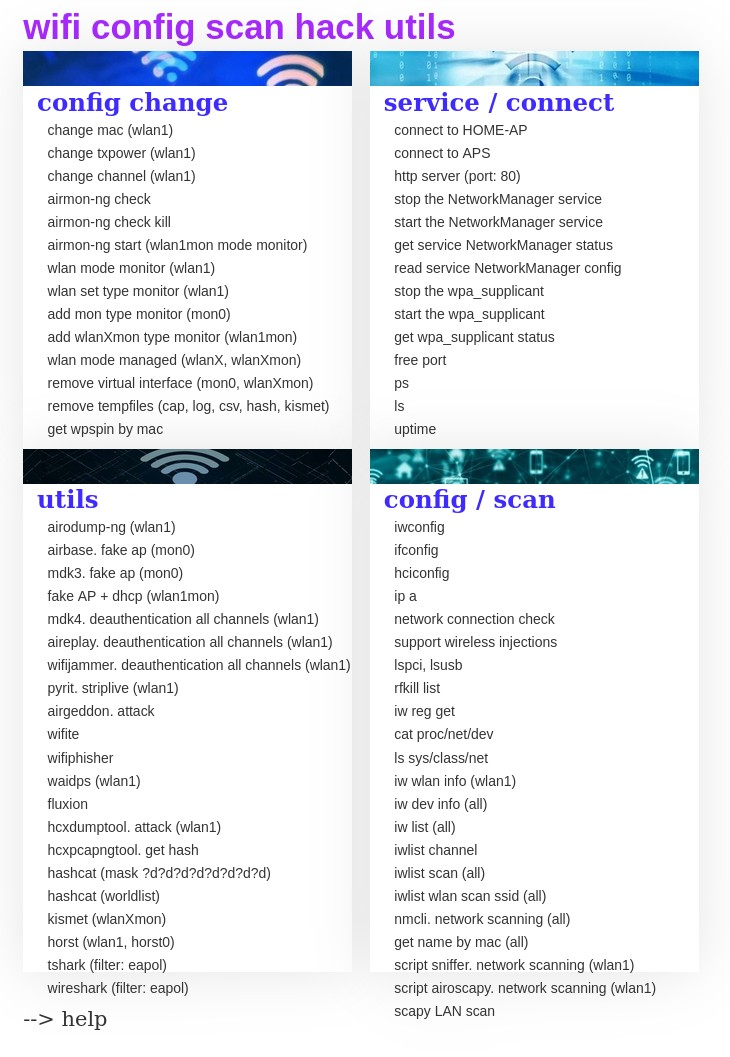
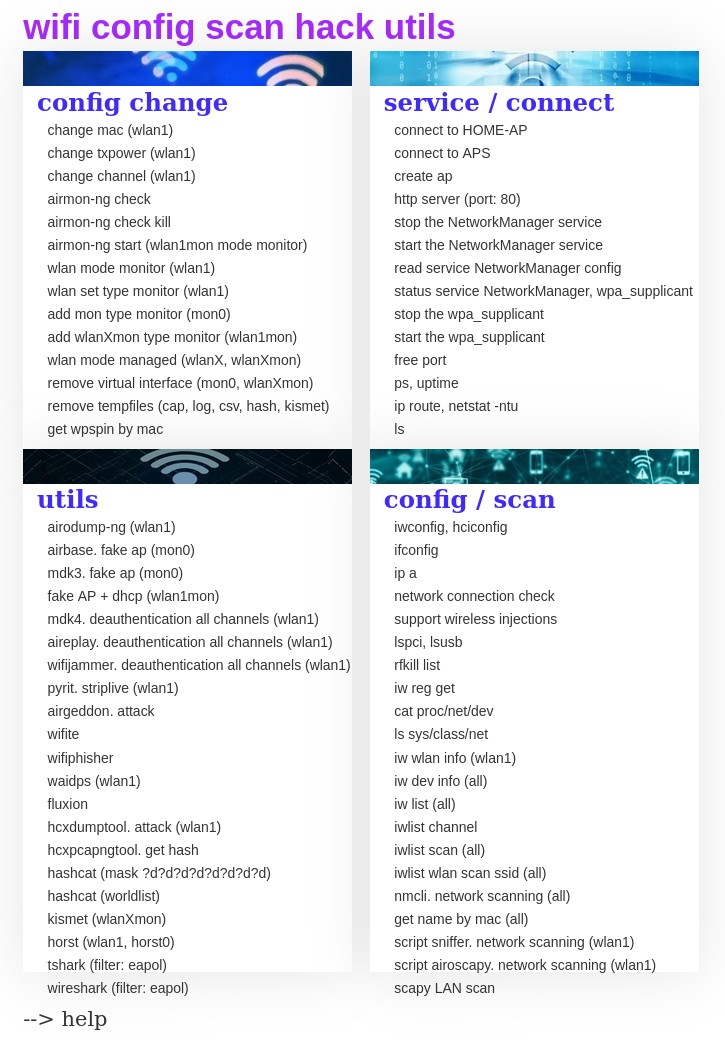
fixed manager, app, added create_ap

diff --git a/template/index.html b/template/index.html
@@ -79,6 +79,9 @@
             <a href="/wifi-ap-to-ap-connect" target="_blank">connect to APS</a>
           </li>
           <li class="items-list">
+            <a href="/create-ap" target="_blank">create ap</a>
+          </li>
+          <li class="items-list">
             <a href="/http_server" target="_blank">http server (port: 80)</a>
           </li>	
           <li class="items-list">
@@ -88,10 +91,10 @@
             <a href="/NetworkManager_start" target="_blank">start the NetworkManager service</a>
           </li>
           <li class="items-list">
-            <a href="/NetworkManager_status" target="_blank">get service NetworkManager status</a>
+            <a href="/NetworkManager_read_conf" target="_blank">read service NetworkManager config</a>
           </li>
           <li class="items-list">
-            <a href="/NetworkManager_read_conf" target="_blank">read service NetworkManager config</a>
+            <a href="/NetworkManager_wpa_supplicant_status" target="_blank">status service NetworkManager, wpa_supplicant</a>
           </li>
           <li class="items-list">
             <a href="/wpa_supplicant_stop" target="_blank">stop the wpa_supplicant</a>
@@ -100,19 +103,16 @@
             <a href="/wpa_supplicant_start" target="_blank">start the wpa_supplicant</a>
           </li>
           <li class="items-list">
-            <a href="/wpa_supplicant_status" target="_blank">get wpa_supplicant status</a>
-          </li>
-          <li class="items-list">
             <a href="/free_port/<int:port>" target="_blank">free port</a>
           </li>
           <li class="items-list">
-            <a href="/ps" target="_blank">ps</a>
+            <a href="/ps_uptime" target="_blank">ps, uptime</a>
+          </li>
+          <li class="items-list">
+            <a href="/route-netstat" target="_blank">ip route, netstat -ntu</a>
           </li>
           <li class="items-list">
             <a href="/ls" target="_blank">ls</a>
-          </li>
-          <li class="items-list">
-            <a href="/uptime" target="_blank">uptime</a>
           </li>
           <li class="items-list">
           </li>
@@ -196,13 +196,10 @@
         </h2>
         <ul class="card-list">
           <li class="items-list">
-            <a href="/iwconfig" target="_blank">iwconfig</a>
+            <a href="/iwconfig-hciconfig" target="_blank">iwconfig, hciconfig</a>
           </li>
           <li class="items-list">
             <a href="/ifconfig" target="_blank">ifconfig</a>
-          </li>
-          <li class="items-list">
-            <a href="/hciconfig" target="_blank">hciconfig</a>
           </li>
           <li class="items-list">
             <a href="/ip_a" target="_blank">ip a</a>

diff --git a/functions/manager.py b/functions/manager.py
@@ -1,29 +1,28 @@
-import subprocess
-
 from . import *
 
 __all__ = ['network_manager_stop', 'network_manager_read_conf', 'change_mac',
            'network_manager_start', 'get_network_manager_status', 'get_ls',
-           'get_uptime', 'connecting_wifi', 'get_networks', 'get_ifconfig',
-           'get_iwconfig', 'change_power', 'get_airmon_check', 'free_port',
-           'set_airmon_check_kill', 'set_airmon_mode_monitor', 'set_airodump',
-           'set_hcxdumptool', 'set_mode_managed', 'get_pids', 'get_iw_list',
-           'get_iwlist_scan', 'get_iw_wlan_info', 'set_wlan_mode_monitor',
-           'set_wlan_set_type_monitor', 'set_add_mon_type_monitor', 'get_ps',
-           'get_iw_dev_info', 'set_del_mon_interface', 'set_hcxpcapngtool',
-           'set_wpa_supplicant_stop', 'set_wpa_supplicant_start', 'set_sniffer',
-           'get_wpa_supplicant_status', 'set_hashcat_mask', 'get_mac_to_wpspin',
-           'get_name_to_mac', 'get_iwlist_wlan_scan_ssid', 'set_mdk3_fake_ap',
-           'set_airbase_fake_ap', 'set_mdk4_deauthentication', 'change_channel',
+           'get_ps_uptime', 'connecting_wifi', 'get_networks', 'get_ifconfig',
+           'get_iwconfig_hciconfig', 'change_power', 'get_airmon_check',
+           'free_port', 'set_airmon_check_kill', 'set_airmon_mode_monitor',
+           'set_airodump', 'set_hcxdumptool', 'set_mode_managed', 'get_pids',
+           'get_iw_list', 'get_iwlist_scan', 'get_iw_wlan_info', 'set_wifite',
+           'set_wlan_mode_monitor', 'set_wlan_set_type_monitor', 'set_fake_ap',
+           'set_add_mon_type_monitor', 'get_iw_dev_info', 'get_ip',
+           'set_del_mon_interface', 'set_hcxpcapngtool', 'set_aireplay_inject',
+           'set_wpa_supplicant_stop', 'set_wpa_supplicant_start',
+           'set_sniffer', 'get_wpa_supplicant_status', 'set_hashcat_mask',
+           'get_mac_to_wpspin', 'get_name_to_mac', 'get_iwlist_wlan_scan_ssid',
+           'set_mdk3_fake_ap', 'set_airbase_fake_ap', 'get_route_netstat',
+           'set_mdk4_deauthentication', 'change_channel', 'set_hashcat_dict',
            'set_aireplay_deauthentication', 'set_pyrit_striplive', 'set_horst',
-           'set_kismet', 'set_hashcat_dict', 'set_airoscapy', 'get_hciconfig',
-           'start_http_server', 'set_del_tempfiles', 'get_rfkill_list',
-           'get_lspci_lsusb', 'get_ip', 'set_tshark', 'set_wireshark',
-           'set_airgeddon', 'set_wifite', 'set_wifiphisher', 'set_waidps',
+           'set_kismet', 'set_airoscapy', 'start_http_server', 'set_waidps',
+           'set_del_tempfiles', 'get_rfkill_list', 'get_lspci_lsusb',
+           'set_tshark', 'set_wireshark', 'set_airgeddon', 'set_wifiphisher',
            'get_iwlist_channel', 'get_iw_dev_wlan_link', 'connecting_aps_wifi',
-           'set_fluxion', 'set_wifijammer', 'set_fake_ap', 'set_scapy_lan_scan', 
-           'get_iw_reg_get', 'set_add_wlanXmon_type_monitor',
-           'get_cat_proc_net_dev', 'get_ls_sys_class_net', 'set_aireplay_inject']
+           'set_scapy_lan_scan', 'set_fluxion', 'get_cat_proc_net_dev',
+           'set_wifijammer',  'get_iw_reg_get', 'set_add_wlanXmon_type_monitor',
+           'get_ls_sys_class_net', 'set_create_ap']
 
 
 def model(cmd, arg):
@@ -262,8 +261,8 @@ def set_aireplay_deauthentication():
 def set_aireplay_inject():
     set_wlan_mode_monitor()
     cmd = f"gnome-terminal --tab -- bash -c 'aireplay-ng -9 {WLAN}'"
-    result = model(cmd, '')
-    return f"<h2><font color='black'><pre>{result}</pre></font></h2>"
+    result = model(cmd=cmd, arg='')
+    return "<h2><font color='red'>FINISH</font></h2>"
 
 
 def set_wifite():
@@ -460,10 +459,12 @@ def get_ip() -> str:
 
 def get_iw_dev_wlan_link() -> str:
     wlan = get_phy()
-    result = ''
+    result = '<b>***** iw dev wlan link *****</b>'
     for i in wlan:
         cmd = f"iw dev {i} link"
         result += '<p>' + model(cmd=cmd, arg='') + '</p>'
+    cmd = 'nmcli dev status'
+    result += f'<b>***** {cmd} *****</b><p>' + model(cmd=cmd, arg='') + '</p>'
     return f"<h2><font color='blue'><pre>{result}</pre></font></h2>"
 
 
@@ -471,7 +472,7 @@ def get_lspci_lsusb() -> str:
     result = ''
     cmd = ["lspci", "lsusb"]
     for i in cmd:
-        result += '<p>' + model(cmd=i, arg='') + '</p>'
+        result += f'<b>***** {i} *****</b><p>' + model(cmd=i, arg='') + '</p>'
     return f"<h2><font color='blue'><pre>{result}</pre></font></h2>"
 
 
@@ -487,15 +488,19 @@ def get_iw_reg_get() -> str:
     return f"<h2><font color='blue'><pre>{result}</pre></font></h2>"
 
 
-def get_iwconfig() -> str:
-    cmd = "iwconfig"
-    result = model(cmd=cmd, arg='')
+def get_iwconfig_hciconfig() -> str:
+    result = ''
+    cmd = ["iwconfig", "hciconfig -a"]
+    for i in cmd:
+        result += f'<b>***** {i} *****</b><p>' + model(cmd=i, arg='') + '</p>'
     return f"<h2><font color='blue'><pre>{result}</pre></font></h2>"
 
 
-def get_hciconfig() -> str:
-    cmd = "hciconfig -a"
-    result = model(cmd=cmd, arg='')
+def get_route_netstat() -> str:
+    result = ''
+    cmd = ["ip route", "netstat -ntu"]
+    for i in cmd:
+        result += f'<b>***** {i} *****</b><p>' + model(cmd=i, arg='') + '</p>'
     return f"<h2><font color='blue'><pre>{result}</pre></font></h2>"
 
 
@@ -512,7 +517,6 @@ def get_iw_list() -> str:
 
 
 def get_iwlist_wlan_scan_ssid() -> str:
-    # cmd = "iwlist scan | grep Address"
     cmd = "iwlist scan | grep ESSID"
     sys.stdout = subprocess.check_output(cmd, shell=True).decode('utf-8')
     output = '\n'.join(sys.stdout.split('\n'))
@@ -577,32 +581,35 @@ def connecting_aps_wifi() -> str:
     return "<h2><font color='red'>NOT CONNECTING</font></h2>"
 
 
+def set_create_ap() -> str:
+    cmd = (f"gnome-terminal --window -- bash -c "
+           f"'create_ap {WLAN} eth0 MyAP password'")
+    model(cmd=cmd, arg='')
+    return "<h2><font color='red'>FINISH</font></h2>"
+
+
 def start_http_server() -> str:
     cmd = "gnome-terminal --window -- bash -c 'python3 -m http.server 80'"
     result = model(cmd=cmd, arg='')
     return f"<h2><font color='green'><pre>{result}</pre></font></h2>"
 
 
-def get_ps() -> str:
-    result = model(cmd="ps", arg='arg')
-    return f"<h2><font color='blue'><pre>{result}</pre></font></h2>"
-
-
-def get_uptime() -> str:
+def get_ps_uptime() -> str:
     stdout = sys.stdout
     cmd = 'uptime'
     sys.stdout = subprocess.check_output(cmd, shell=True).decode('utf-8').strip()
     output = [i for i in sys.stdout.split(' ')]
     sys.stdout = stdout
-    html = f"<h2>Current uptime is <font color='blue'>{output[0]}</font></h2>"
-    return html
+    uptime = f"<h2>Current uptime is <font color='blue'>{output[0]}</font></h2>"
+    result = uptime + model(cmd="ps", arg='arg')
+    return f"<h2><font color='blue'><pre>{result}</pre></font></h2>"
 
 
 def get_ls() -> str:
     result = ''
     for i in ['.', 'functions', 'template', 'tempfiles']:
         cmd = f"ls -lia {i}"
-        result += '<p>' + model(cmd=cmd, arg='') + '</p>'
+        result += f'<b>***** {i} *****</b><p>' + model(cmd=cmd, arg='') + '</p>'
     return f"<h2><font color='blue'><pre>{result}</pre></font></h2>"
 
 

diff --git a/app.py b/app.py
@@ -276,18 +276,6 @@ def nm_start() -> str:
     return network_manager_start()
 
 
-@app.route('/NetworkManager_status')
-def nm_status():
-    result = get_network_manager_status()[135:163]
-    color = 'grey'
-    if 'dead' in result:
-        color = 'red'
-    elif 'running' in result:
-        color = 'green'
-    return (f'<h2>NetworkManager status: <font color="{color}">'
-            f'{result}</font></h2>')
-
-
 @app.route('/NetworkManager_read_conf')
 def nm_read() -> str:
     return network_manager_read_conf()
@@ -303,21 +291,36 @@ def wpa_supplicant_start() -> str:
     return set_wpa_supplicant_start()
 
 
-@app.route('/wpa_supplicant_status')
-def wpa_supplicant_status():
-    result = get_wpa_supplicant_status()[135:164]
+def status(service):
     color = 'grey'
-    if 'dead' in result:
+    if 'dead' in service:
         color = 'red'
-    elif 'running' in result:
+    elif 'running' in service:
         color = 'green'
-    return (f'<h2>WPA SUPPLICANT status: <font color="{color}">'
-            f'{result}</font></h2>')
+    return color
 
 
-@app.route("/iwconfig")
-def iwconfig() -> str:
-    return get_iwconfig()
+@app.route('/NetworkManager_wpa_supplicant_status')
+def nm_wpa_supplicant_status():
+    result_nm = get_network_manager_status()[135:163]
+    result_wss = get_wpa_supplicant_status()[135:164]
+    color_nm = status(result_nm)
+    color_wss = status(result_wss)
+    nm = (f'<h2>NetworkManager status: <font color="{color_nm}">'
+          f'{result_nm}</font></h2>')
+    wss = (f'<h2><p>WPA SUPPLICANT status: <font color="{color_wss}">'
+           f'{result_wss}</font></p></h2>')
+    return nm + wss
+
+
+@app.route("/iwconfig-hciconfig")
+def iwconfig_hciconfig() -> str:
+    return get_iwconfig_hciconfig()
+
+
+@app.route("/route-netstat")
+def route_netstat() -> str:
+    return get_route_netstat()
 
 
 @app.route("/ifconfig")
@@ -348,11 +351,6 @@ def rfkill() -> str:
 @app.route("/iw_reg_get")
 def iw_reg_get() -> str:
     return get_iw_reg_get()
-
-
-@app.route("/hciconfig")
-def hciconfig() -> str:
-    return get_hciconfig()
 
 
 @app.route("/iw-wlan-info")
@@ -410,24 +408,24 @@ def connect_ap_to_ap_wifi() -> str:
     return connecting_aps_wifi()
 
 
+@app.route("/create-ap")
+def create_ap() -> str:
+    return set_create_ap()
+
+
 @app.route("/http_server")
 def http_server() -> str:
     return start_http_server()
 
 
-@app.route("/ps")
-def ps() -> str:
-    return get_ps()
+@app.route("/ps_uptime")
+def ps_uptime() -> str:
+    return get_ps_uptime()
 
 
 @app.route("/ls")
 def ls() -> str:
     return get_ls()
-
-
-@app.route("/uptime")
-def uptime() -> str:
-    return get_uptime()
 
 
 @app.route("/free_port/<port>", methods=['GET'])

diff --git a/template/help.md b/template/help.md
@@ -17,6 +17,7 @@
 > kismet: <a href='https://github.com/kismetwireless/kismet'>https://github.com/kismetwireless/kismet</a>
 > horst: <a href='https://github.com/br101/horst'>https://github.com/br101/horst</a>
 > wireshark, tshark: <a href='https://github.com/wireshark/wireshark'>https://github.com/wireshark/wireshark</a>
+> create ap: <a href='https://github.com/oblique/create_ap'>https://github.com/oblique/create_ap</a>
 
 ################################################################
 Getting Started and Troubleshooting:
@@ -40,6 +41,7 @@ fix scapy: instal scapy3.2.2 version
 # git clone https://github.com/SYWorks/waidps tempfiles/
 # git clone https://github.com/DanMcInerney/wifijammer tempfiles/
 # git clone https://github.com/FluxionNetwork/fluxion tempfiles/
+# git clone https://github.com/oblique/create_ap (cd create_ap, make install)
 
 ################################################################
 program start example:
